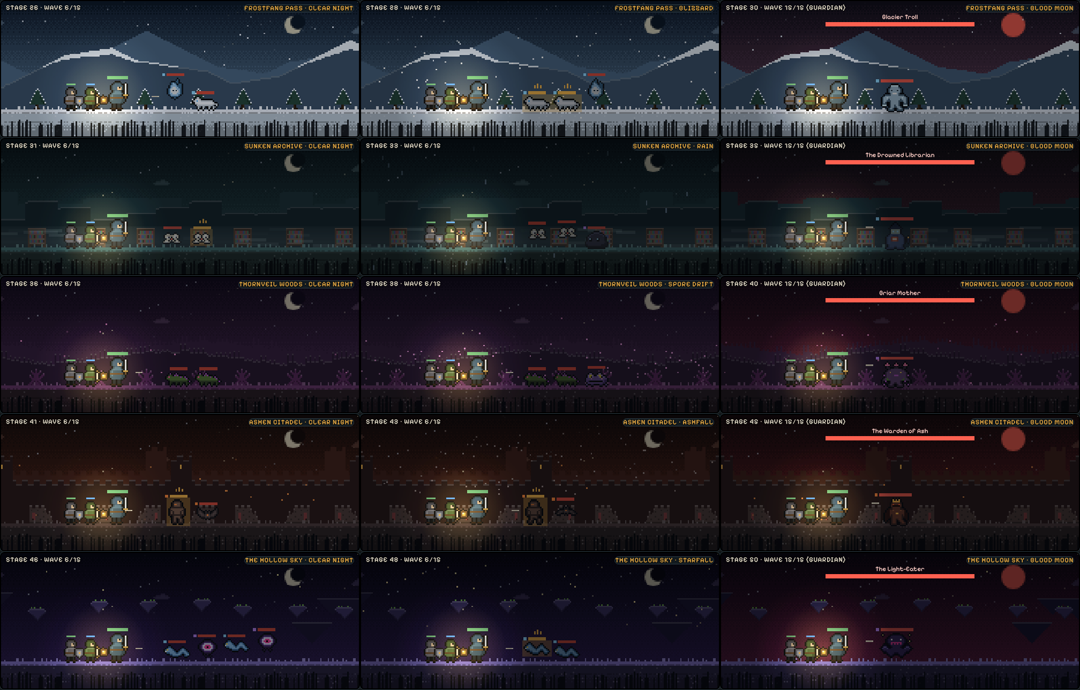
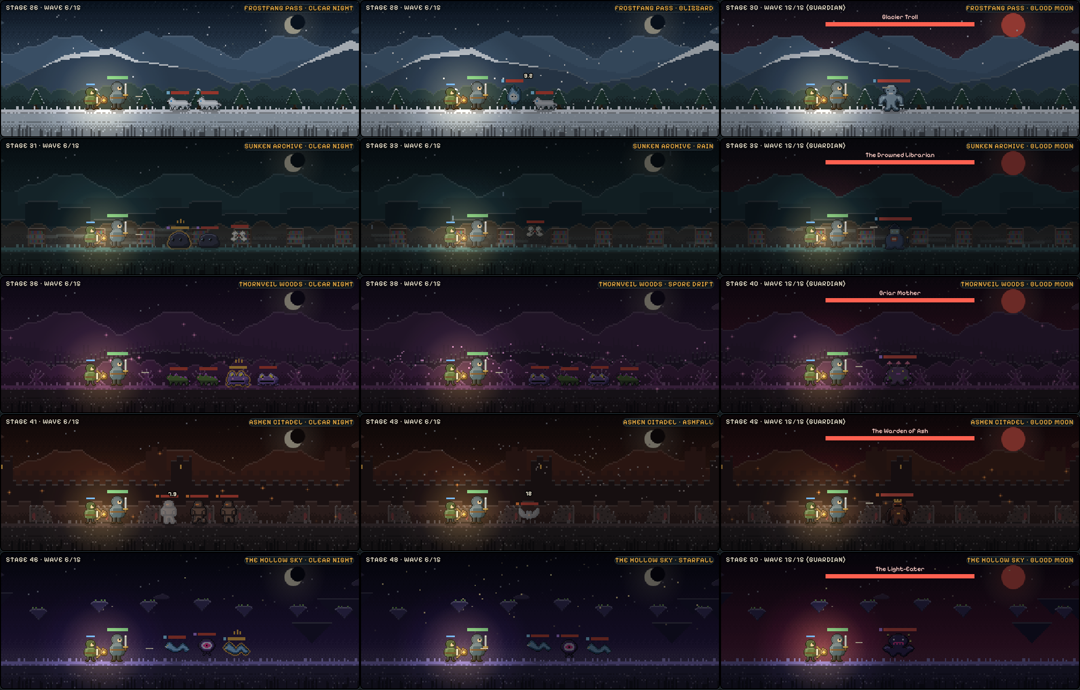
Lantern Road: 16-bit graphics pass
- World renders at double resolution; sprites are smoothed with Scale2x,
  then shaded with a light ramp and given a selective 1px outline
- Two more parallax layers (distant ranges and a canopy band), smoother
  skies with a horizon glow, moon halo, glowing fireflies and embers
- Contact shadows under every figure and a walking bob; half-pixel motion
- Portraits, shop previews and the sprite sheet export follow the new size

Claude-Session: https://claude.ai/code/session_01WDuPzht4wgF1JCJuSCPApi

diff --git a/games/lantern-road/index.html b/games/lantern-road/index.html
@@ -1120,8 +1120,9 @@ function updateParts(dt) {
 
 /* ---------- Drawing ---------- */
 const cv = $('#cv'), D = cv.getContext('2d');
-const low = document.createElement('canvas'); low.width = W; low.height = H;
+const low = document.createElement('canvas'); low.width = W * 2; low.height = H * 2;
 let L = low.getContext('2d');
+L.setTransform(2, 0, 0, 2, 0, 0); L.imageSmoothingEnabled = false;
 const dark = document.createElement('canvas'); dark.width = W; dark.height = H;
 const K = dark.getContext('2d');
 function px(x, y, w, h, c) { L.fillStyle = c; L.fillRect(Math.round(x), Math.round(y), Math.max(1, Math.round(w)), Math.max(1, Math.round(h))); }
@@ -1619,17 +1620,49 @@ function tierPal(pk, tier) {
   if (!PAL[key]) PAL[key] = Object.fromEntries(Object.entries(PAL[pk]).map(([k, v]) => [k, shade(v, -.11 * Math.min(tier, 3))]));
   return key;
 }
-function buildSprite(rows, pal, outline) {
+/* 16-bit look. Sprites are drawn as letter grids, then:
+   1. smoothed with Scale2x (the classic pixel-art upscaler): diagonals and corners get rounded instead of just doubled,
+   2. shaded with a light ramp at the finer size (light from the upper left),
+   3. given a 1-pixel selective outline: each outline pixel is a dark version of the colour it borders, and only the
+      bottom edge stays near-black so figures sit on the ground.
+   The canvas is twice the size; lw and lh hold the size in game pixels.
+   outline: 'sel' for the 16-bit outline, a colour string for a flat one (hit flashes, elite rims), or null. */
+function buildSprite(rows, pal, outline, shadeIt) {
   const h = rows.length, w = Math.max(...rows.map(r => r.length));
-  const c = document.createElement('canvas'); c.width = w + 2; c.height = h + 2;
-  const x = c.getContext('2d');
-  const solid = (i, j) => j >= 0 && j < h && i >= 0 && i < rows[j].length && rows[j][i] !== '.' && !!pal[rows[j][i]];
-  if (outline) {
-    x.fillStyle = outline;
-    for (let j = -1; j <= h; j++) for (let i = -1; i <= w; i++)
-      if (!solid(i, j) && (solid(i - 1, j) || solid(i + 1, j) || solid(i, j - 1) || solid(i, j + 1))) x.fillRect(i + 1, j + 1, 1, 1);
+  const base = (i, j) => (j >= 0 && j < h && i >= 0 && i < rows[j].length && rows[j][i] !== '.' && pal[rows[j][i]]) || null;
+  const W2 = w * 2, H2 = h * 2, g = new Array(W2 * H2).fill(null);
+  for (let j = 0; j < h; j++) for (let i = 0; i < w; i++) {
+    const P = base(i, j), A = base(i, j - 1), B = base(i + 1, j), C = base(i - 1, j), D = base(i, j + 1);
+    let e1 = P, e2 = P, e3 = P, e4 = P;
+    if (C === A && C !== D && A !== B) e1 = A;
+    if (A === B && A !== C && B !== D) e2 = B;
+    if (D === C && D !== B && C !== A) e3 = C;
+    if (B === D && B !== A && D !== C) e4 = D;
+    const o = 2 * j * W2 + 2 * i;
+    g[o] = e1; g[o + 1] = e2; g[o + W2] = e3; g[o + W2 + 1] = e4;
   }
-  for (let j = 0; j < h; j++) for (let i = 0; i < rows[j].length; i++) if (solid(i, j)) { x.fillStyle = pal[rows[j][i]]; x.fillRect(i + 1, j + 1, 1, 1); }
+  const at = (x, y) => (x >= 0 && y >= 0 && x < W2 && y < H2) ? g[y * W2 + x] : null;
+  const c = document.createElement('canvas'); c.width = W2 + 4; c.height = H2 + 4; c.lw = w + 2; c.lh = h + 2;
+  const x = c.getContext('2d');
+  if (outline) {
+    for (let y = -1; y <= H2; y++) for (let i = -1; i <= W2; i++) {
+      if (at(i, y)) continue;
+      const below = at(i, y - 1) && !at(i, y + 1) && !at(i - 1, y) && !at(i + 1, y);
+      const n = at(i, y + 1) || at(i + 1, y) || at(i - 1, y) || at(i, y - 1);
+      if (!n) continue;
+      x.fillStyle = outline !== 'sel' ? outline : (below || y === H2) ? OUTLINE : shade(n, -.62);
+      x.fillRect(i + 2, y + 2, 1, 1);
+    }
+  }
+  for (let y = 0; y < H2; y++) for (let i = 0; i < W2; i++) {
+    let col = at(i, y); if (!col) continue;
+    if (shadeIt && col[0] === '#') {
+      const lit = !at(i, y - 1) || !at(i - 1, y), dim = !at(i, y + 1) || !at(i + 1, y);
+      const lit2 = !at(i, y - 2) || !at(i - 2, y);
+      if (lit && !dim) col = shade(col, .2); else if (dim && !lit) col = shade(col, -.18); else if (lit2 && !dim) col = shade(col, .07);
+    }
+    x.fillStyle = col; x.fillRect(i + 2, y + 2, 1, 1);
+  }
   return c;
 }
 const sprCache = {};
@@ -1642,10 +1675,10 @@ function getSpr(name, frame, palKey, pal, flash, noOutline) {
   let p = pal || PAL[palKey];
   const fc = flash === true ? '#ffffff' : flash;
   if (flash) p = Object.fromEntries(Object.keys(p).map(k => [k, fc]));
-  return (sprCache[key] = buildSprite(rows, p, noOutline ? null : flash ? fc : OUTLINE));
+  return (sprCache[key] = buildSprite(rows, p, noOutline ? null : flash ? fc : 'sel', !flash));
 }
 function sprCacheReset() { for (const k in sprCache) if (/^(hero|fol|lantern|staff)\|/.test(k)) delete sprCache[k]; }
-function blit(c, x, y) { L.drawImage(c, Math.round(x), Math.round(y)); }
+function blit(c, x, y) { L.drawImage(c, Math.round(x * 2) / 2, Math.round(y * 2) / 2, c.lw || c.width, c.lh || c.height); }
 const urlCache = {};
 function foeURL(name) {
   if (urlCache[name]) return urlCache[name];
@@ -1663,9 +1696,9 @@ function drawProp(kind, x, i, z) {
   const r = hash(i);
   const c = getSpr(kind, 0, 'prop:' + z.name, propPal(z), false, true);
   const cut = kind === 'pillar' ? Math.floor(r * 12) : kind === 'tree' ? Math.floor(r * 3) : 0;
-  const h = c.height - cut, y = GY - h + 1 - (kind === 'island' ? 24 + Math.round(r * 10) : 0);
-  if (r > .5) { L.save(); L.scale(-1, 1); L.drawImage(c, 0, cut, c.width, h, -Math.round(x) - c.width, y, c.width, h); L.restore(); }
-  else L.drawImage(c, 0, cut, c.width, h, Math.round(x), y, c.width, h);
+  const h = c.lh - cut, y = GY - h + 1 - (kind === 'island' ? 24 + Math.round(r * 10) : 0);
+  if (r > .5) { L.save(); L.scale(-1, 1); L.drawImage(c, 0, cut * 2, c.width, h * 2, -Math.round(x) - c.lw, y, c.lw, h); L.restore(); }
+  else L.drawImage(c, 0, cut * 2, c.width, h * 2, Math.round(x), y, c.lw, h);
 }
 
 function drawFoe(e) {
@@ -1674,24 +1707,30 @@ function drawFoe(e) {
   const def = SPR[sn], t = G.t + e.ph;
   const frame = Math.floor(t * (def.fly ? 7 : 5)) % 2;
   const c = getSpr(sn, frame, pk, null, false);
-  let y = GY - c.height + 1;
+  let y = GY - c.lh + 1;
   if (def.fly) y -= 5 + Math.round(Math.sin(t * 3) * 2);
   else if (e.boss) y += frame;
   const fade = e.dead ? clamp(1 - e.die / .5, 0, 1) : 1;
   if (e.dead) y += e.die * 8;
   L.globalAlpha = fade * (alpha || 1);
   if (e.elite && !e.dead) { // a thin gold rim that follows the sprite
-    const gold = getSpr(sn, frame, pk, null, '#f3b44a'), gx = e.x - c.width / 2;
+    const gold = getSpr(sn, frame, pk, null, '#f3b44a'), gx = e.x - c.lw / 2;
     L.globalAlpha = fade * (.55 + .25 * Math.sin(G.t * 5));
     for (const [dx, dy] of [[-1, 0], [1, 0], [0, -1], [0, 1]]) blit(gold, gx + dx, y + dy);
     L.globalAlpha = fade * (alpha || 1);
   }
-  blit(c, e.x - c.width / 2, y);
-  if (e.flash > 0 && !e.dead) { const a = L.globalAlpha; L.globalAlpha = a * .5; blit(getSpr(sn, frame, pk, null, true), e.x - c.width / 2, y); L.globalAlpha = a; }
+  if (!e.dead) { // contact shadow; flyers cast a smaller, fainter one
+    const rw = Math.max(4, Math.round(c.lw * (def.fly ? .25 : .38)));
+    L.globalAlpha = fade * (def.fly ? .18 : .32); L.fillStyle = '#000';
+    L.fillRect(Math.round(e.x - rw), GY, rw * 2, 1); L.fillRect(Math.round(e.x - rw + 2), GY + 1, rw * 2 - 4, 1);
+    L.globalAlpha = fade * (alpha || 1);
+  }
+  blit(c, e.x - c.lw / 2, y);
+  if (e.flash > 0 && !e.dead) { const a = L.globalAlpha; L.globalAlpha = a * .5; blit(getSpr(sn, frame, pk, null, true), e.x - c.lw / 2, y); L.globalAlpha = a; }
   if (!e.dead && (e.shell > 0 || e.evade > 0 || e.reflect > 0 || e.haste > 0)) {
     const col = e.shell > 0 ? '#8fd8ff' : e.evade > 0 ? '#c8c8c8' : e.reflect > 0 ? '#ff8a3d' : '#ff5a3a';
     L.globalAlpha = .4 + .2 * Math.sin(G.t * 10); L.strokeStyle = col; L.lineWidth = 1;
-    L.strokeRect(Math.round(e.x - c.width / 2) + .5, Math.round(y) + .5, c.width - 1, c.height - 1);
+    L.lineWidth = .5; L.strokeRect(Math.round(e.x - c.lw / 2) + 1.25, Math.round(y) + 1.25, c.lw - 2.5, c.lh - 2.5);
   }
   L.globalAlpha = 1;
   if (!e.dead) {
@@ -1706,8 +1745,9 @@ function drawFoe(e) {
 function drawFollower(f, x, walking, phase) {
   const frame = walking ? Math.floor((G ? G.t : 0) * 8 + phase) % 2 : 0;
   const body = getSpr('fol', frame, 'fol:' + f.kind + ':' + currentLook('company'), folPal(f.kind));
-  if (currentLook('company') === 'banners') { const tr = getSpr('trim', 0, 'trim'); blit(tr, Math.round(x - 6) + 2, GY - body.height + 6); }
-  const ox = Math.round(x - 6), oy = GY - body.height + 1;
+  if (currentLook('company') === 'banners') { const tr = getSpr('trim', 0, 'trim'); blit(tr, Math.round(x - 6) + 2, GY - body.lh + 6); }
+  const ox = Math.round(x - 6), oy = GY - body.lh + 1 - (walking && frame ? 1 : 0);
+  L.globalAlpha = .3; L.fillStyle = '#000'; L.fillRect(ox + 2, GY, 8, 1); L.fillRect(ox + 3, GY + 1, 6, 1); L.globalAlpha = 1;
   blit(body, ox, oy);
   const K = KINDS[f.kind];
   if (f.kind === 'archer') blit(getSpr('fbow', 0, 'fbow'), ox + 9, oy + 4);
@@ -1726,7 +1766,8 @@ function drawHero() {
   const look = currentLook('outfit'), O = OUTFITS[look];
   const body = getSpr('hero', frame, 'hero:' + look, Object.assign({}, PAL.hero, { c: O.c, C: shade(O.c, .22), d: shade(O.c, -.28), h: O.h, H: shade(O.h, .2) }));
   const lan = LANTERNS[currentLook('lantern')], lanPal = { b: '#6b4a2a', y: lan.y, Y: lan.Y };
-  const ox = x - 8, oy = GY - body.height + 1, sway = walking ? frame : 0;
+  const ox = x - 8, oy = GY - body.lh + 1 - (walking && frame ? 1 : 0), sway = walking ? frame : 0;
+  L.globalAlpha = .34; L.fillStyle = '#000'; L.fillRect(ox + 3, GY, 10, 1); L.fillRect(ox + 4, GY + 1, 8, 1); L.globalAlpha = 1;
   if (S.path !== 'lamp') blit(getSpr('lantern', 0, 'lantern:' + currentLook('lantern'), lanPal), ox - 4, oy + 9 + sway);
   blit(body, ox, oy);
   if (S.path === 'blade') {
@@ -1761,7 +1802,8 @@ function skyCanvas(z, v) {
   return cached(`sky|${z.name}|${v}`, W, GY, (x, w, h) => {
     const top = v === 4 ? mix(z.sky[0], '#1a0408', .4) : z.sky[0];
     const bot = v === 3 ? mix(z.sky[1], '#d0703a', .45) : v === 4 ? mix(z.sky[1], '#7a1a2a', .55) : v === 1 ? mix(z.sky[1], '#8a9aa8', .25) : z.sky[1];
-    const bands = 7, cols = Array.from({ length: bands + 1 }, (_, i) => mix(top, bot, i / bands));
+    const glowTo = mix(bot, '#ffffff', v === 4 ? .08 : .14), bands = 14;
+    const cols = Array.from({ length: bands + 1 }, (_, i) => { const t = i / bands; return t > .82 ? mix(bot, glowTo, (t - .82) / .18) : mix(top, bot, t / .82); });
     for (let y = 0; y < h; y++) for (let i = 0; i < w; i++) {
       const b = Math.min(bands, Math.floor((y / (h - 1)) * bands + BAYER[(y & 3) * 4 + (i & 3)] / 16));
       x.fillStyle = cols[b]; x.fillRect(i, y, 1, 1);
@@ -1835,6 +1877,7 @@ function drawBackdrop(z, sc) {
   if (v !== 3) for (const [sx, sy, k] of STARS) { L.globalAlpha = (.3 + .3 * Math.sin(G.t * 2 + sx)) * (z.dark > .3 ? 1 : .5); px((sx - sc * .02 + W) % W, sy, 1, 1, k ? '#cfd8e8' : '#fff4c8'); }
   L.globalAlpha = 1;
   const moon = v === 4 ? '#ff6050' : v === 3 ? '#ffd090' : 'rgba(236,228,200,.85)';
+  { const halo = L.createRadialGradient(196, 16, 4, 196, 16, 22); halo.addColorStop(0, v === 4 ? 'rgba(255,90,70,.28)' : 'rgba(255,240,200,.16)'); halo.addColorStop(1, 'rgba(255,240,200,0)'); L.fillStyle = halo; L.fillRect(170, 0, 52, 40); }
   L.fillStyle = moon; L.beginPath(); L.arc(196, 16, v === 4 ? 8 : 6, 0, Math.PI * 2); L.fill();
   if (v !== 4) { L.fillStyle = z.sky[0]; L.beginPath(); L.arc(199, 14, 5, 0, Math.PI * 2); L.fill(); }
   // clouds drift slowly, faster than the hills
@@ -1843,10 +1886,12 @@ function drawBackdrop(z, sc) {
   for (let k = 0; k < 5; k++) {
     const spr = getSpr(k % 2 ? 'cloudA' : 'cloudB', 0, 'cloud:' + z.name + v, cp, false, true);
     const xx = ((hash(k + 70) * SKY_W - sc * .08 - G.t * (2 + k)) % SKY_W + SKY_W) % SKY_W - 30;
-    L.globalAlpha = .55; L.drawImage(spr, Math.round(xx), Math.round(6 + hash(k + 80) * 22)); L.globalAlpha = 1;
+    L.globalAlpha = .55; blit(spr, Math.round(xx), Math.round(6 + hash(k + 80) * 22)); L.globalAlpha = 1;
   }
+  if (z.shape !== 'islands') { const rg = rangesCanvas(z), ro = Math.round(sc * .06) % SKY_W; L.drawImage(rg, -ro, 0); L.drawImage(rg, SKY_W - ro, 0); }
   const far = skylineCanvas(z), fo = Math.round(sc * .15) % SKY_W;
   L.drawImage(far, -fo, 0); L.drawImage(far, SKY_W - fo, 0);
+  if (z.shape !== 'islands') { const cn = canopyCanvas(z), co = Math.round(sc * .3) % SKY_W; L.drawImage(cn, -co, 0); L.drawImage(cn, SKY_W - co, 0); }
   const sp = 34, off = (sc * .5) % sp, base = Math.floor(sc * .5 / sp);
   for (let k = -1; k < W / sp + 2; k++) drawProp(z.prop, k * sp - off + hash(base + k) * 10, base + k, z);
   const gr = groundCanvas(z), go = Math.round(sc) % 64;
@@ -1866,6 +1911,32 @@ function drawFront(z, sc) {
   }
 }
 
+/* Two extra parallax layers for depth: hazy distant ranges and a rolling canopy between the skyline and the props. */
+function rangesCanvas(z) {
+  return cached(`ranges|${z.name}`, SKY_W, GY, (x, w, h) => {
+    const col = mix(z.far, z.sky[1], .72), edge = mix(col, '#ffffff', .12);
+    for (let i = 0; i < w; i++) {
+      const t = i / w * Math.PI * 2;
+      const y = Math.round(34 + Math.abs(Math.sin(t * 3)) * -10 + Math.sin(t * 7) * 3 + Math.abs(Math.sin(t * 13)) * 2);
+      x.fillStyle = col; x.fillRect(i, y, 1, h - y); x.fillStyle = edge; x.fillRect(i, y, 1, 1);
+    }
+  });
+}
+function canopyCanvas(z) {
+  return cached(`canopy|${z.name}`, SKY_W, GY, (x, w, h) => {
+    const col = mix(shade(z.mid, -.25), z.sky[1], .28), lit = mix(col, '#ffffff', .1), dark = shade(col, -.25);
+    for (let i = 0; i < w; i++) {
+      const t = i / w * Math.PI * 2;
+      const bump = z.shape === 'castle' ? ((i >> 3) % 2 ? 3 : 0) : z.shape === 'dunes' ? Math.sin(t * 4) * 3 : Math.abs(Math.sin(i * .21)) * 4 + Math.sin(t * 6) * 2;
+      const y = Math.round(GY - 12 - bump);
+      for (let yy = y; yy < h; yy++) {
+        const b = BAYER[(yy & 3) * 4 + (i & 3)] / 16;
+        x.fillStyle = yy === y ? lit : (yy - y) / (h - y) + b * .3 > .7 ? dark : col; x.fillRect(i, yy, 1, 1);
+      }
+    }
+  });
+}
+
 /* The full sprite sheet, for anyone who wants the art outside the game. */
 function artSheet(scale) {
   scale = scale || 4;
@@ -1877,8 +1948,8 @@ function artSheet(scale) {
     ['Scenery', ZONES.map(z => [z.prop, 0, 'prop:' + z.name, propPal(z), false, true])],
   ];
   const pad = 6, rowsOut = groups.map(([title, list]) => [title, list.map(a => getSpr(...a))]);
-  const width = Math.max(...rowsOut.map(([, s]) => s.reduce((a, c) => a + c.width + pad, pad)));
-  const height = rowsOut.reduce((a, [, s]) => a + 12 + Math.max(...s.map(c => c.height)) + pad, pad);
+  const width = Math.max(...rowsOut.map(([, s]) => s.reduce((a, c) => a + c.lw + pad, pad)));
+  const height = rowsOut.reduce((a, [, s]) => a + 12 + Math.max(...s.map(c => c.lh)) + pad, pad);
   const out = document.createElement('canvas'); out.width = width * scale; out.height = height * scale;
   const o = out.getContext('2d'); o.imageSmoothingEnabled = false;
   o.fillStyle = '#141c21'; o.fillRect(0, 0, out.width, out.height);
@@ -1886,8 +1957,8 @@ function artSheet(scale) {
   for (const [title, list] of rowsOut) {
     o.fillStyle = '#f3b44a'; o.font = `700 ${7 * scale}px "Pixelify Sans", monospace`; o.fillText(title, pad * scale, (y + 8) * scale);
     y += 12;
-    let x = pad; const rh = Math.max(...list.map(c => c.height));
-    for (const c of list) { o.drawImage(c, x * scale, (y + rh - c.height) * scale, c.width * scale, c.height * scale); x += c.width + pad; }
+    let x = pad; const rh = Math.max(...list.map(c => c.lh));
+    for (const c of list) { o.drawImage(c, x * scale, (y + rh - c.lh) * scale, c.lw * scale, c.lh * scale); x += c.lw + pad; }
     y += rh + pad;
   }
   return out.toDataURL('image/png');
@@ -1900,7 +1971,7 @@ function draw() {
   for (const p of G.parts) {
     if (p.k === 'loot') { px(p.x - 1, p.y - 1, 3, 3, p.c); continue; }
     L.globalAlpha = Math.sin(Math.PI * clamp(p.t / p.life, 0, 1));
-    if (p.k === 'mist') px(p.x, p.y, p.w, 2, p.c); else if (p.k === 'sand') px(p.x, p.y, 4, 1, p.c); else if (p.k === 'rain') { px(p.x, p.y, 1, 3, p.c); } else px(p.x, p.y, 1, 1, p.c);
+    if (p.k === 'mist') px(p.x, p.y, p.w, 2, p.c); else if (p.k === 'sand') px(p.x, p.y, 4, 1, p.c); else if (p.k === 'rain') { px(p.x, p.y, 1, 3, p.c); } else { if (p.k === 'firefly' || p.k === 'ember') { const a = L.globalAlpha; L.globalAlpha = a * .3; px(p.x - 1, p.y, 3, 1, p.c); px(p.x, p.y - 1, 1, 3, p.c); L.globalAlpha = a; } px(p.x, p.y, 1, 1, p.c); }
   }
   L.globalAlpha = 1;
   for (const e of G.enemies) drawFoe(e);
@@ -1956,7 +2027,7 @@ function sizeCanvas() {
 /* Portrait of a follower for the Company tab, drawn with the same routine. */
 function portrait(canvas, f) {
   const prev = L, c = canvas.getContext('2d');
-  L = c; c.clearRect(0, 0, 20, 20);
+  L = c; c.setTransform(2, 0, 0, 2, 0, 0); c.imageSmoothingEnabled = false; c.clearRect(0, 0, 20, 20);
   c.save(); c.translate(4, 19 - GY);
   drawFollower(f, 6, false, 0);
   c.restore(); L = prev;
@@ -2082,7 +2153,7 @@ function renderCompany() {
   const cards = S.roster.map(f => {
     const inParty = S.party.includes(f.id), cost = trainCost(f), K = KINDS[f.kind];
     return `<article class="fol" style="--rc:${RAR[f.r].col}">
-      <header><canvas width="20" height="20" data-por="${f.id}"></canvas><div><h3>${esc(f.name)}</h3><div class="meta">${RAR[f.r].n} ${K.n} · Lv ${f.lvl}</div></div>${inParty ? '<span class="tagpill" style="margin-left:auto">Walking</span>' : ''}</header>
+      <header><canvas width="40" height="40" data-por="${f.id}"></canvas><div><h3>${esc(f.name)}</h3><div class="meta">${RAR[f.r].n} ${K.n} · Lv ${f.lvl}</div></div>${inParty ? '<span class="tagpill" style="margin-left:auto">Walking</span>' : ''}</header>
       <p>${K.role}. ${folSummary(f, st.cp)}.</p>
       <div class="row">
         ${inParty ? `<button class="btn small" data-act="rest" data-id="${f.id}">Rest</button>` : `<button class="btn small ${members.length < slots ? 'primary' : ''}" data-act="walk" data-id="${f.id}" ${members.length < slots ? '' : 'disabled'}>Walk with me</button>`}
@@ -2176,8 +2247,8 @@ function renderJournal() {
 }
 function previewCanvas(kind, key) {
   // Small preview of a look, drawn with the game's own sprites
-  const c = document.createElement('canvas'); c.width = 34; c.height = 24;
-  const prev = L, x = c.getContext('2d'); L = x;
+  const c = document.createElement('canvas'); c.width = 68; c.height = 48;
+  const prev = L, x = c.getContext('2d'); L = x; x.setTransform(2, 0, 0, 2, 0, 0); x.imageSmoothingEnabled = false;
   x.fillStyle = '#0a0f12'; x.fillRect(0, 0, 34, 24);
   if (kind === 'lantern') {
     const lan = LANTERNS[key], g = x.createRadialGradient(17, 12, 0, 17, 12, 14); g.addColorStop(0, `rgba(${lan.glow},.55)`); g.addColorStop(1, `rgba(${lan.glow},0)`);
